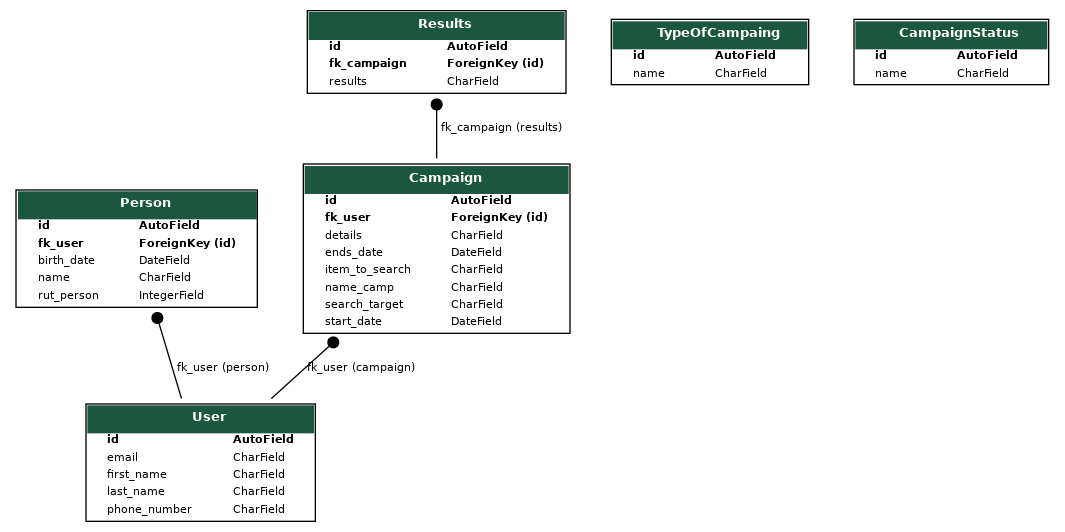
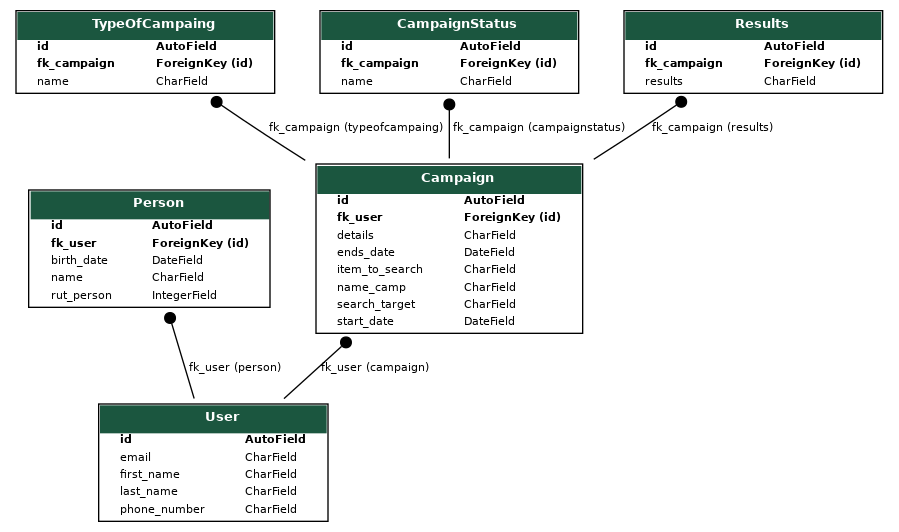
2407191644

diff --git a/api/api/models.py b/api/api/models.py
@@ -30,9 +30,11 @@ class Campaign(models.Model):
     details = models.CharField(max_length=500, default='')
 
 class TypeOfCampaing(models.Model):
+    fk_campaign = models.ForeignKey(Campaign, on_delete=models.CASCADE,)
     name = models.CharField(max_length=50, default='')
 
 class CampaignStatus(models.Model):
+    fk_campaign = models.ForeignKey(Campaign, on_delete=models.CASCADE,)
     name = models.CharField(max_length=50, default='')
 
 class Results(models.Model):
